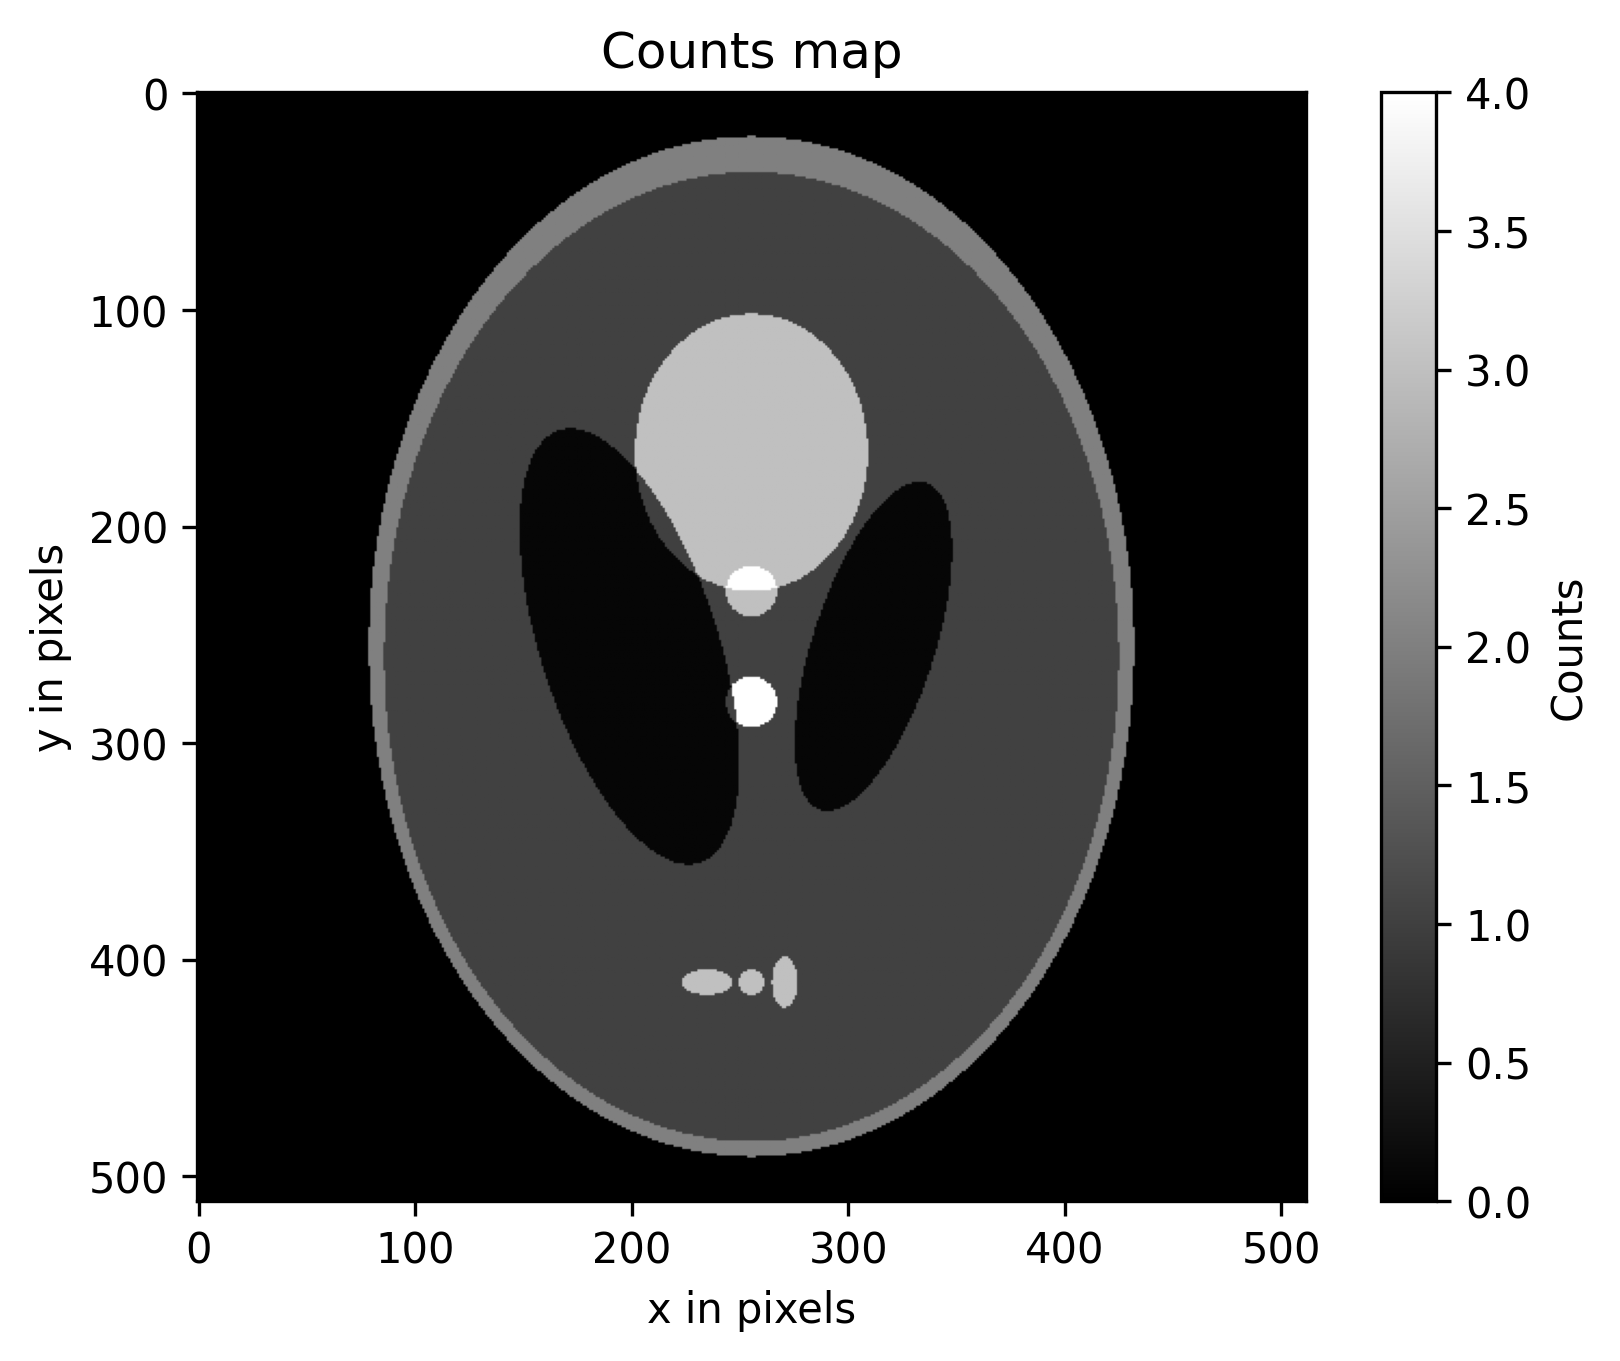
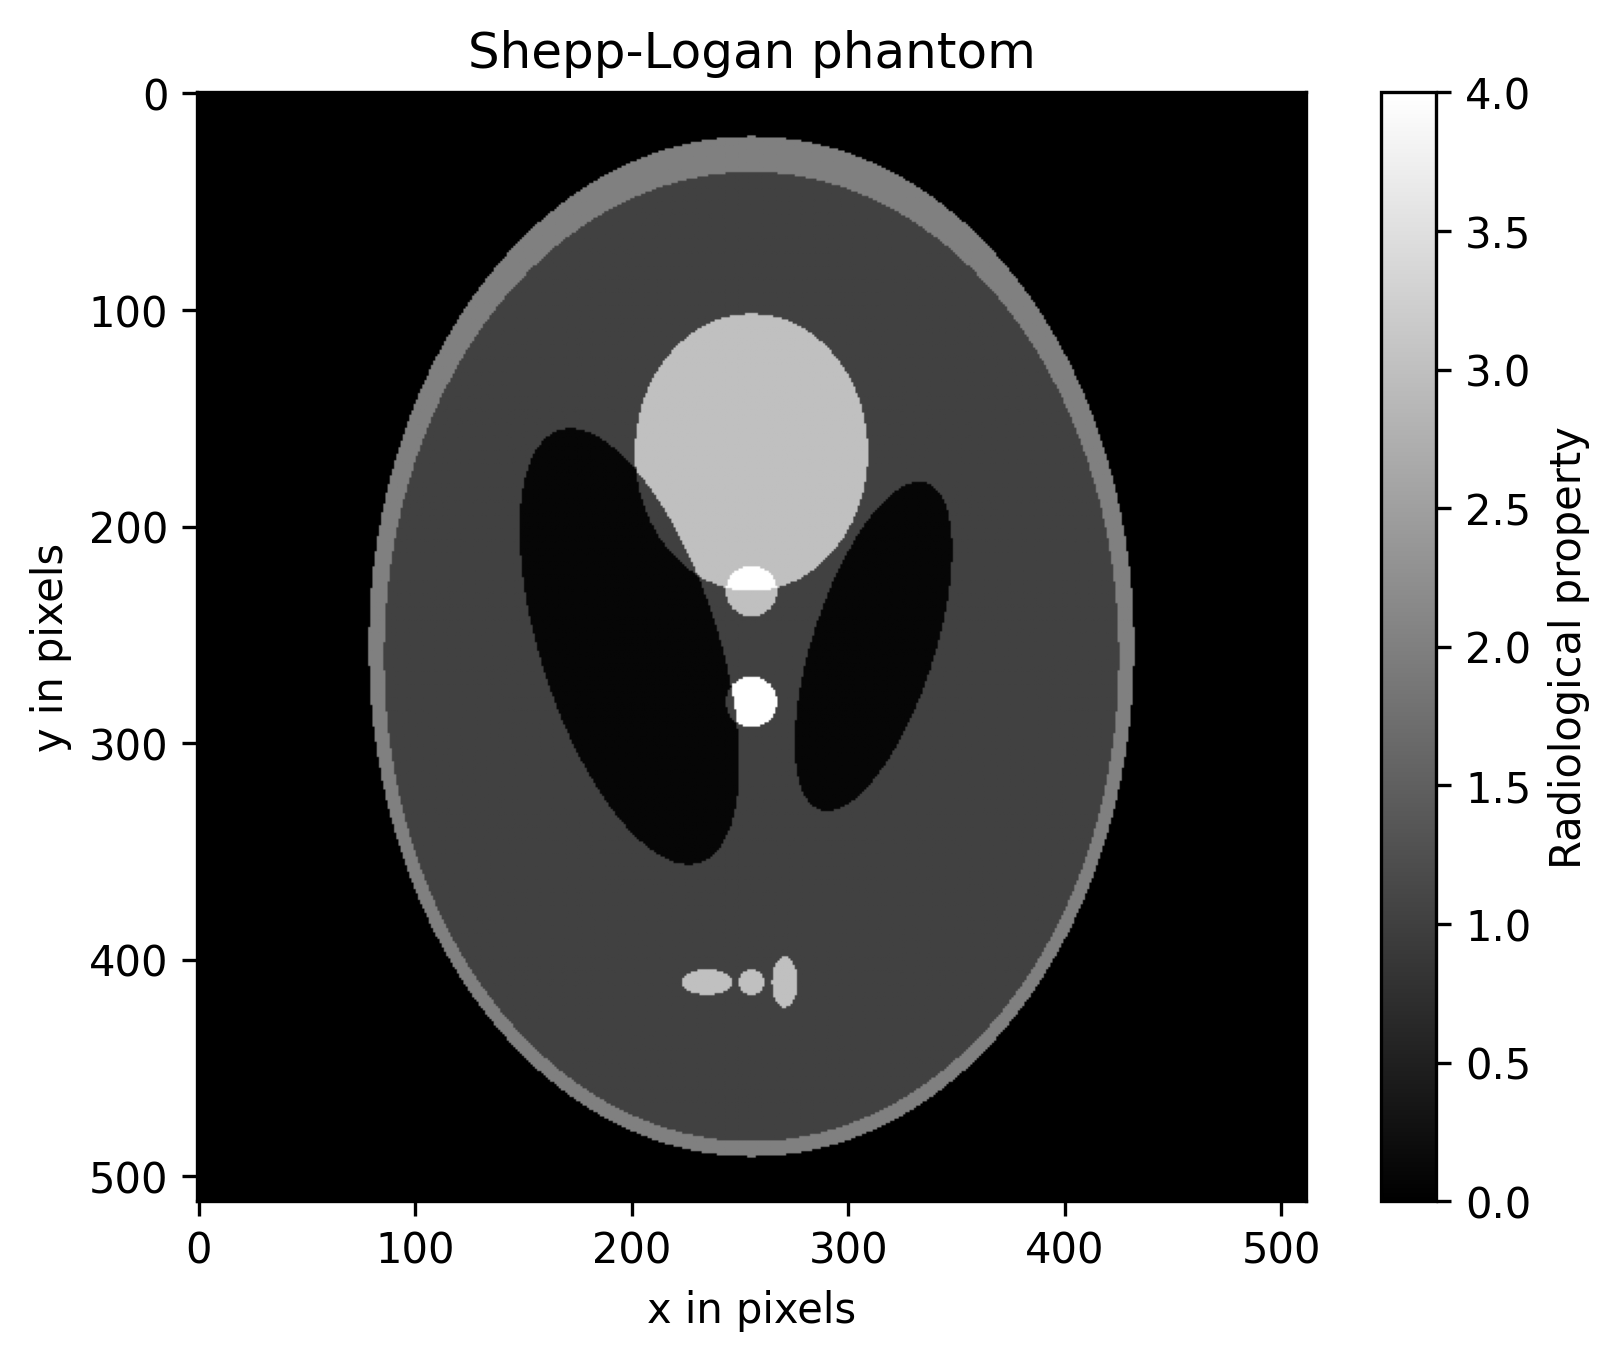
c

Changed region(s): [[0.2778, 0.0309, 0.6481, 0.0617], [0.9568, 0.3086, 0.9877, 0.6481]]

diff --git a/exercise5/ReadMHA.py b/exercise5/ReadMHA.py
@@ -59,11 +59,11 @@ def main():
 
     # ---- SAVE FULL IMAGE ----
     plt.figure()
-    plt.title("Counts map")
+    plt.title("Shepp-Logan phantom")
     plt.imshow(volume, cmap="gray", vmin=volume.min(), vmax=volume.max())
     plt.xlabel("x in pixels")
     plt.ylabel("y in pixels")
-    plt.colorbar(label="Counts")
+    plt.colorbar(label="Radiological property")
     plt.savefig("counts_map.png", dpi=300, bbox_inches="tight")
     plt.close()
     print("Saved image: counts_map.png")

diff --git a/exercise5/ex5_x.py b/exercise5/ex5_x.py
@@ -80,7 +80,7 @@ validation = np.sum(CT, axis=1) * dx
 # Plot result
 plt.figure(figsize=(10,6))
 plt.plot(radiological_path, label="Ray tracing")
-plt.plot(validation, "--", label="Column sum (validation)")
+plt.plot(validation, "--", label="Row sum (validation)")
 plt.xlabel("Ray ID", fontsize=16)
 plt.ylabel("Radiological path", fontsize=16)
 plt.title("Ray tracing (parallel to x-axis)", fontsize=18, weight='bold')

diff --git a/exercise5/ex5_30.py b/exercise5/ex5_30.py
@@ -51,7 +51,7 @@ for ray_idx, y0 in enumerate(y_starts):
     a_min = max(0.0, min(ax_first, ax_last), min(ay_first, ay_last))
     a_max = min(1.0, max(ax_first, ax_last), max(ay_first, ay_last))
 
-    if a_min >= a_max: #do not eliminate rays outside the figure
+    if a_min >= a_max: #skip rays outside the figure
         continue
 
     ################################################################
